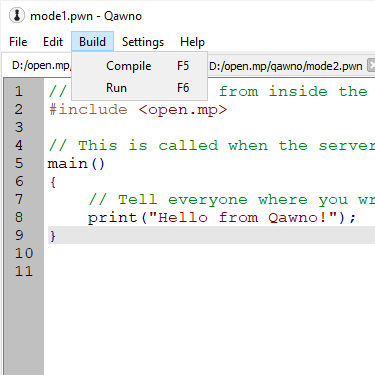
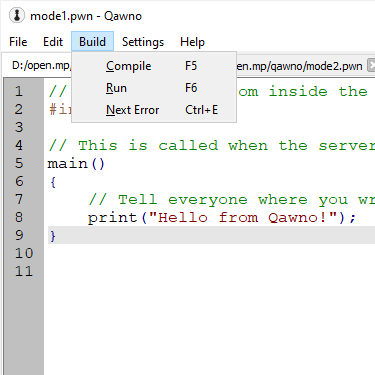
Next error/warning jump.

Changed region(s): [[0.176, 0.1467, 0.6453, 0.3227]]

diff --git a/src/OutputWidget.cpp b/src/OutputWidget.cpp
@@ -16,6 +16,8 @@
 #include <QSettings>
 #include <QApplication>
 #include <QClipboard>
+#include <QRegularExpression>
+#include <QFileInfo>
 
 #include "OutputWidget.h"
 
@@ -53,6 +55,7 @@ void OutputWidget::keyPressEvent(QKeyEvent* event) {
     QApplication::clipboard()->setText(cursor.selectedText());
   } else switch (event->key()) {
   case Qt::Key_C:
+  case Qt::Key_X:
     if (!(event->modifiers() & Qt::ControlModifier)) {
       break;
     }
@@ -72,5 +75,49 @@ void OutputWidget::keyPressEvent(QKeyEvent* event) {
     break;
   }
   return;
+}
+
+void OutputWidget::resetErrorCounter() {
+  error_ = -1;
+}
+
+OutputWidget::error_selection_s OutputWidget::advanceErrorCounter() {
+  // Every time this is called we select different bits of the error text.
+  if (error_ != -1) {
+    // Find the Nth error/warning.
+    QTextCursor cursor = textCursor();
+    cursor.setPosition(0);
+    int err = -1;
+    // Example:
+    //
+    //   D:\open.mp\gamemodes\independence.pwn(9) : warning 203: symbol is never used: "warning"
+    //
+    QRegularExpression message("^(.*?)\\((\\d+)\\)");
+    do {
+      cursor.movePosition(QTextCursor::EndOfBlock, QTextCursor::KeepAnchor);
+      QString text = cursor.selectedText();
+      QRegularExpressionMatch match = message.match(text);
+      if (match.hasMatch()) {
+        ++err;
+        // Loop through the errors.
+        if (err == error_) {
+          QString fileName = match.captured(1);
+          QString line = match.captured(2);
+          // Normalise the filename so we can compare it to open tabs.
+          QFileInfo info(fileName);
+          setTextCursor(cursor);
+          ++error_;
+          return { info.absoluteFilePath(), line.toInt() };
+        }
+      }
+    } while (cursor.movePosition(QTextCursor::NextBlock));
+  }
+  // Select and copy everything.
+  QTextCursor cursor = textCursor();
+  cursor.select(QTextCursor::Document);
+  QApplication::clipboard()->setText(cursor.selectedText());
+  setTextCursor(cursor);
+  error_ = 0;
+  return { "", -1 };
 }
 

diff --git a/src/MainWindow.cpp b/src/MainWindow.cpp
@@ -1609,6 +1609,7 @@ void MainWindow::on_actionCompile_triggered() {
   Compiler compiler;
   const QString& fileName = fileNames_[getCurrentIndex()];
   ui_->output->clear();
+  ui_->output->resetErrorCounter();
   ui_->output->appendPlainText(compiler.commandFor(fileName));
   ui_->output->appendPlainText("\n");
   // Force a repaint now, so the command-line is visible during slow compiles.
@@ -1647,6 +1648,10 @@ void MainWindow::on_actionRun_triggered() {
   }
   on_actionCompile_triggered();
   server_.run(fileNames_[getCurrentIndex()]);
+}
+
+void MainWindow::on_actionNextErr_triggered() {
+  ui_->output->advanceErrorCounter();
 }
 
 void MainWindow::on_actionAbout_triggered() {

diff --git a/src/OutputWidget.h b/src/OutputWidget.h
@@ -21,12 +21,21 @@
 class OutputWidget: public QPlainTextEdit {
  Q_OBJECT
 
- public:
+public:
+  struct error_selection_s {
+    QString File;
+    int Line;
+  };
+
   explicit OutputWidget(QWidget *parent = 0);
   ~OutputWidget() override;
+  void resetErrorCounter();
+  error_selection_s advanceErrorCounter();
 
 private:
   void keyPressEvent(QKeyEvent* event) override;
+
+  int error_ = -1;
 };
 
 #endif // OUTPUTWIDGET_H

diff --git a/src/MainWindow.h b/src/MainWindow.h
@@ -64,6 +64,7 @@ class MainWindow: public QMainWindow {
 
   void on_actionCompile_triggered();
   void on_actionRun_triggered();
+  void on_actionNextErr_triggered();
   void on_actionDelline_triggered();
   void on_actionDupline_triggered();
   void on_actionComment_triggered();

diff --git a/README.md b/README.md
@@ -65,6 +65,7 @@ Provides visual access to all the editor features and options.
 
 * *Compile* - Use the pawn compiler to convert the current file in to a .AMX.  Will save *all* open files first as the main script may depend on other files being edited at the same time.
 * *Run* - Compile the code as with *Compile*, and then attempt to run the open.mp server and lauch the current mode.  If a server is already open this will first kill that instance so that clients/players connected will automatically re-connect.
+* *Next Error* - Jump straight to the location in code of the next error *or warning* from the output.
 
 ![The Settings menu.](documentation/menu-settings.png)
 
@@ -90,7 +91,21 @@ This is where you type code to be run later.
 
 ### 5. Compiler Output
 
-This is where the compiler displays its messages after being invoked with *Run -> Compile*.
+This is where the compiler displays its messages after being invoked with *Run -> Compile*.  Double-clicking on a warning or error in the output pane will jump straight to the source of the issue:
+
+![Warnings after compiling.](documentation/warnings-1.png)
+
+![Warnings after double-clicking on it.](documentation/warnings-2.png)
+
+After compiling `Build -> Next Error` or `Ctrl+E` will automatically move through the warnings and errors, and their locations in code.  Pressing `Ctrl+E` once will *select and copy* the entire error message making asking for help easy [without the ridiculous trend of posting text as an image](https://textnot.pictures/):
+
+![All errors selected and copied.](documentation/errors-selected.png)
+
+Pressing `Ctrl+E` a second time will jump to the location of the first warning or error in code, a third time will jump to the second warning or error, and so-on, eventually looping back to the start:
+
+![Next error location jumped to.](documentation/errors-next.png)
+
+The easy way to remember `Ctrl+E` is *Control Error*, but don't forget that it also does warnings, and that warnings are not the same as errors.  `Ctrl+W` can't be used for this as it is *Close Tab*.
 
 ### 6. The Status Bar
 
@@ -212,14 +227,6 @@ pawncc -;+ -(+ -\ -Z- "-rD:/open.mp/gamemodes/YSI_TEST" "-iinclude" -d0 -O2 -t4 
 * `"-rD:/open.mp/gamemodes/YSI_TEST"` - `-r` is *report* thus this generates a *report* file, i.e. a `.xml` file with all the documentation on functions used in the code.
 
 See the compiler settings for more command-line configuration options.
-
-### Compiler Output
-
-Double-clicking on a warning or error in the output pane will jump straight to the source of the issue:
-
-![Warnings after compiling.](documentation/warnings-1.png)
-
-![Warnings after double-clicking on it.](documentation/warnings-2.png)
 
 ### Running The Server
 
